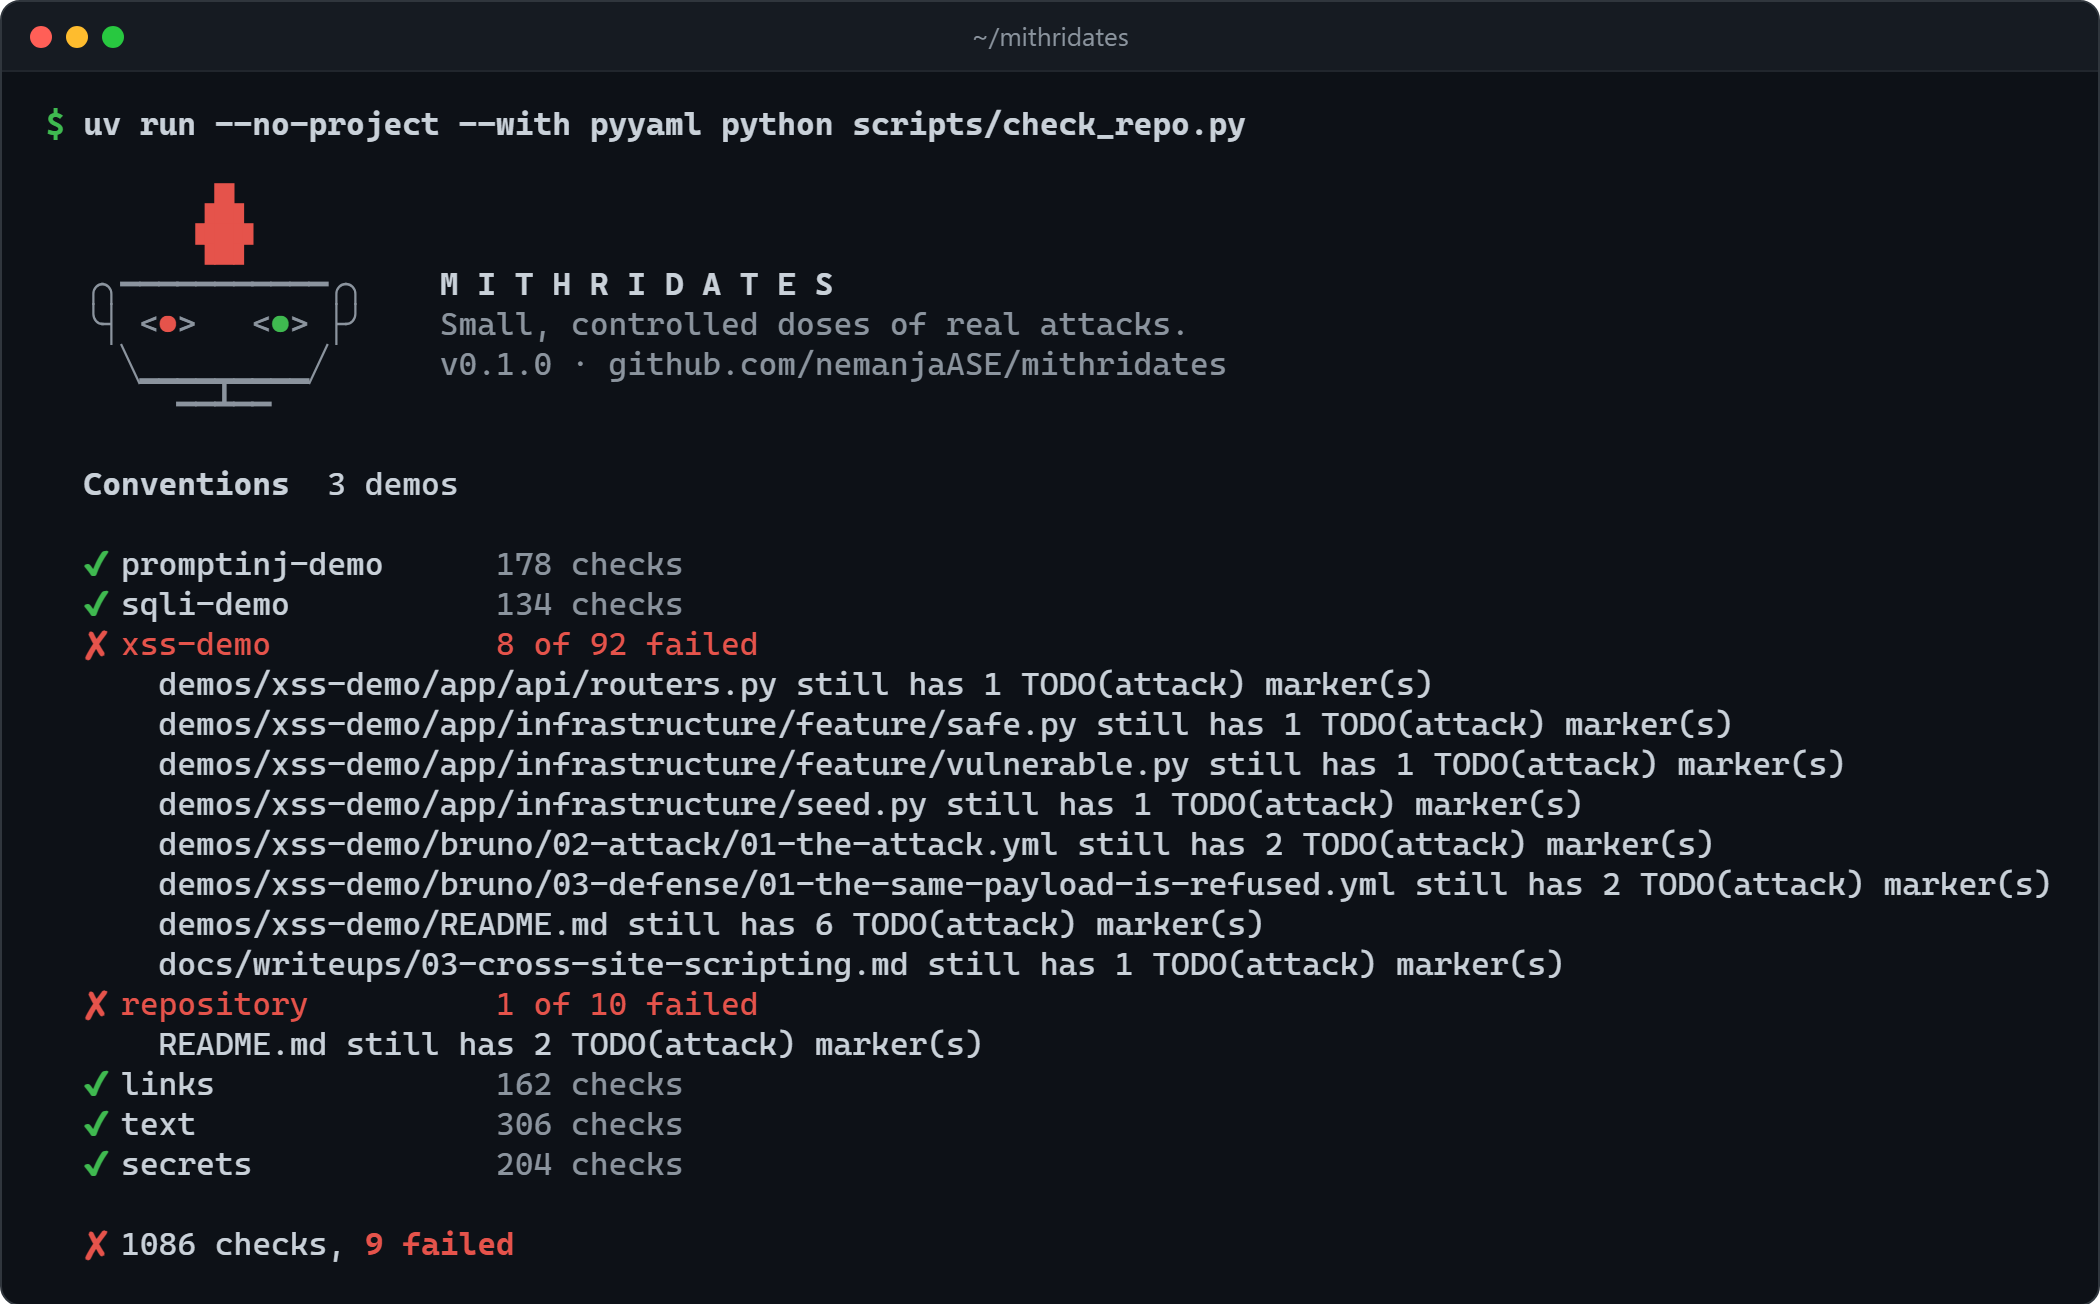
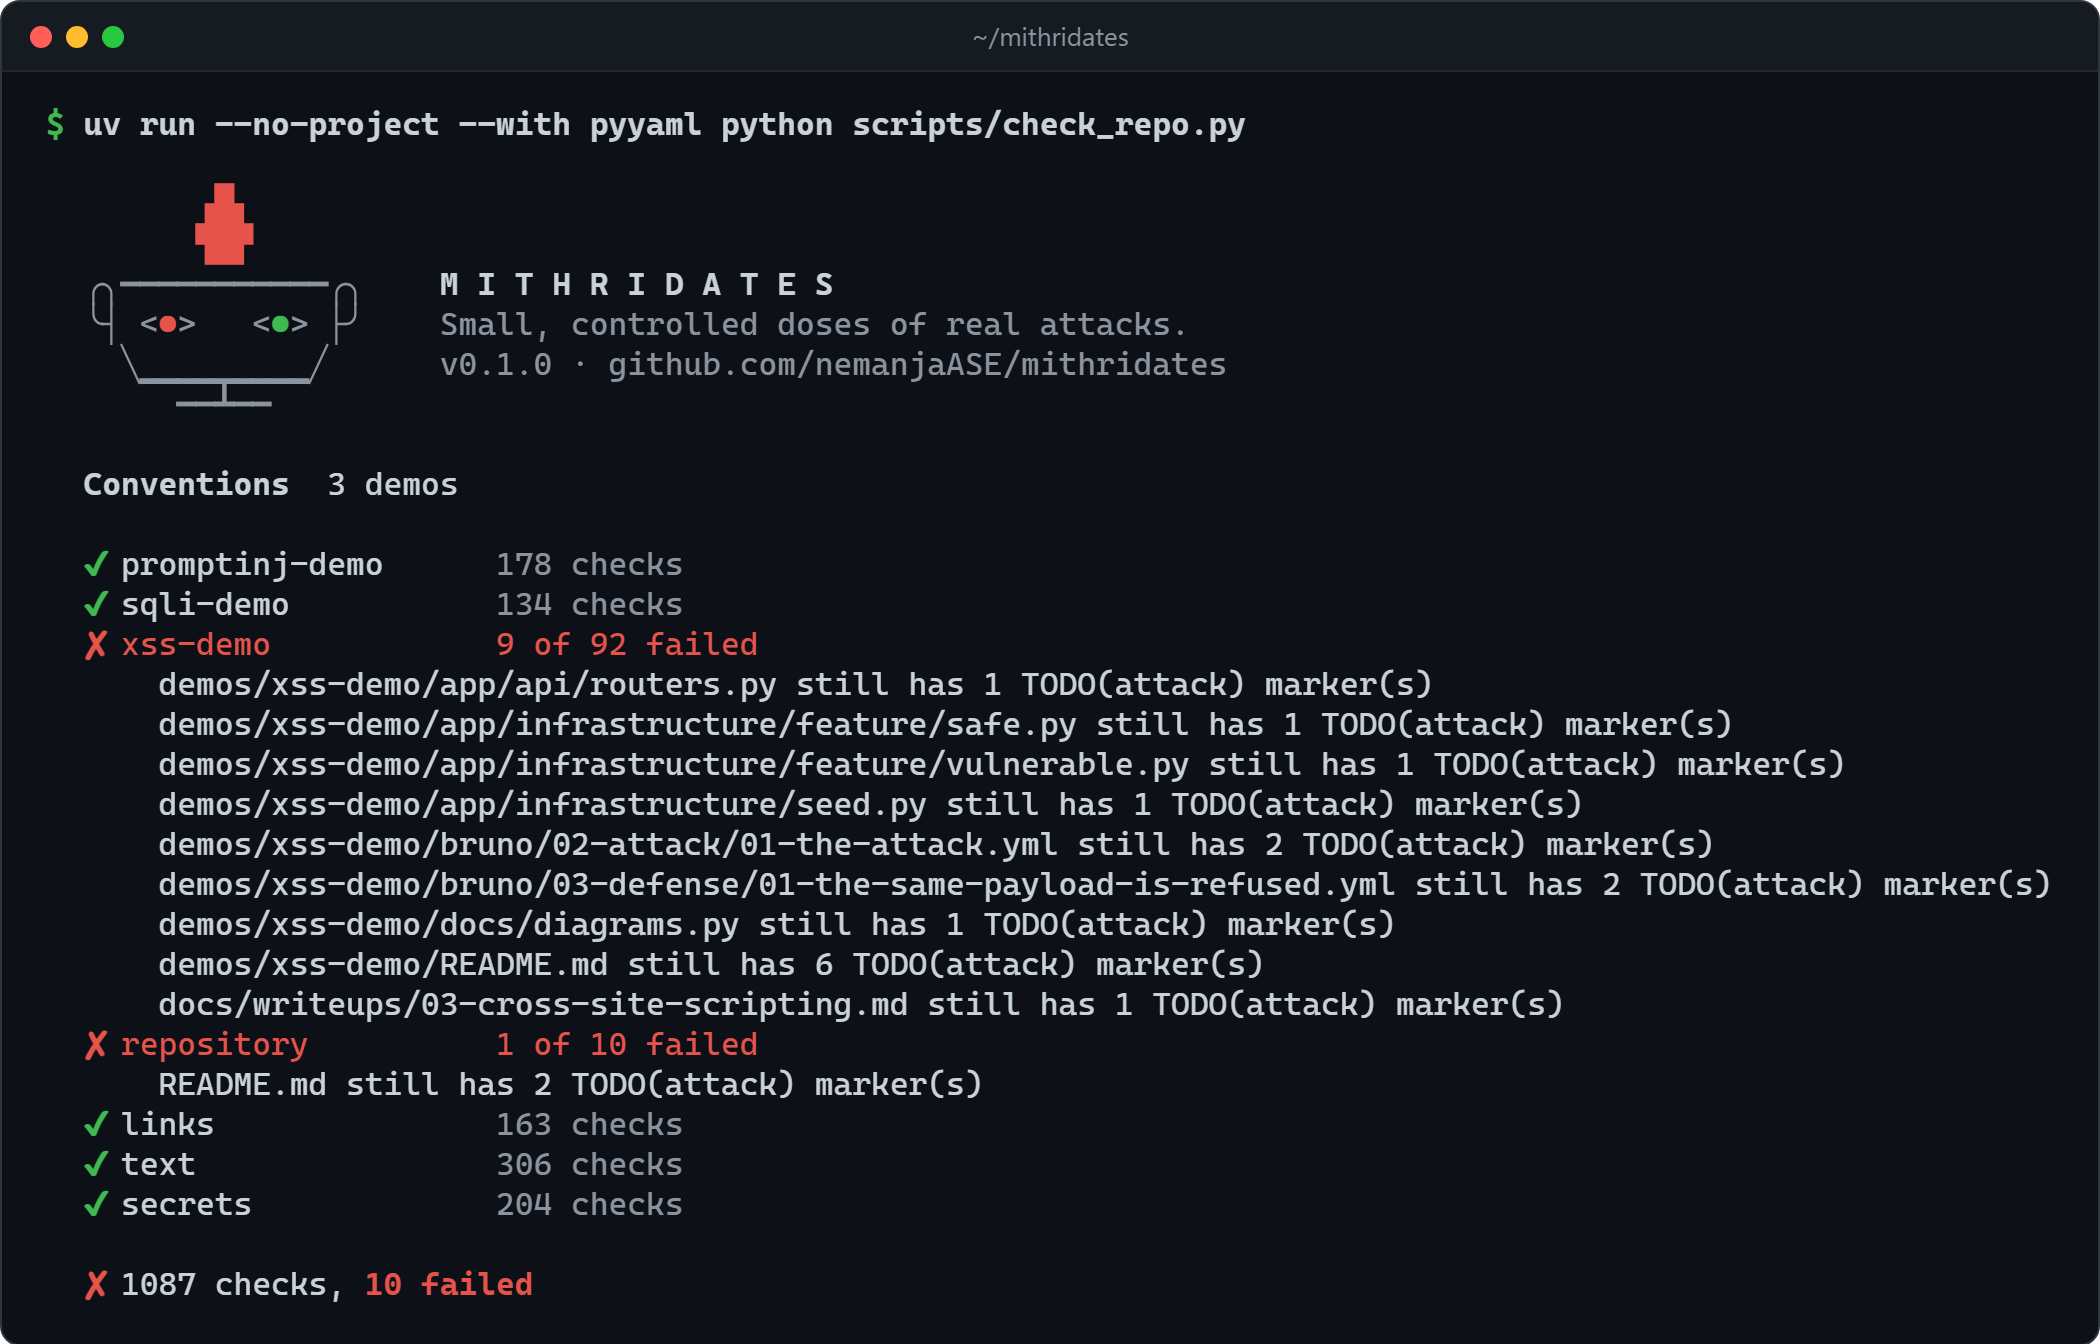
fix(scripts): generated C4 figures match the generated code

diff --git a/.claude/skills/house-style-figures/new_figures.py b/.claude/skills/house-style-figures/new_figures.py
@@ -3,17 +3,21 @@
 The house style is optional: a demo must show the C4 model, but may draw it any way it
 likes. This script is for a contributor who wants the look of the existing demos.
 
-    python .claude/skills/house-style-figures/new_figures.py <topic>-demo
+    python .claude/skills/house-style-figures/new_figures.py <topic>-demo [--postgres] [--mitigated]
 
 Writes demos/<topic>-demo/docs/diagrams.py: the house-style block copied from
-.claude/skills/house-style-figures/diagram_style.py, and the four figures every demo's README carries — C1 context,
-C2 containers, C3 components, C4 code — drawn with placeholder names. They already pass
-check_figures.py; change the names, the boxes and the arrows to your demo's own,
-then run `python demos/<topic>-demo/docs/diagrams.py` to draw them.
+.claude/skills/house-style-figures/diagram_style.py, and the four figures every demo's
+README carries — C1 context, C2 containers, C3 components, C4 code. They draw the code
+scripts/new_demo.py writes, with the same options: a database with `--postgres`, and a
+`mitigated` variant instead of `safe` with `--mitigated`. They pass check_figures.py, and
+carry a TODO(attack) marker until the figures are redrawn for the demo's own attack; then
+run `python demos/<topic>-demo/docs/diagrams.py` to draw them.
 
 figure-kit.svg next to this file shows every part with the call that draws it, and
 SKILL.md has the rules. The script never overwrites an existing file.
 """
+import argparse
+import re
 import sys
 from pathlib import Path
 
@@ -39,6 +43,10 @@ from pathlib import Path
 
 FIGURES = '''
 
+# TODO(attack): these figures draw the code the generator wrote. Redraw them for your
+# attack: change the names, the boxes and the arrows below, run this file, and open the
+# SVGs. .claude/skills/house-style-figures/figure-kit.svg shows every part and its call.
+
 W = 1100
 SYSTEM = "__NAME__"         # the demo; NAME is taken: the style uses it for a size
 
@@ -50,7 +58,7 @@ def context():
     a = figure(W, "c4 model · level 1 · context", "Who uses it, and what it depends on")
     top, hb = 220, node_h("kind", ["what"])
     node(a, M, top, 230, "you", "learner · attacker", ["Bruno"], dash="4 3")
-    node(a, 420, top, 260, SYSTEM, "software system", ["what it is"], icon="fastapi")
+    node(a, 420, top, 260, SYSTEM, "software system", ["vulnerable · __safe__"], icon="fastapi")
     node(a, 814, top, 230, "Docker Hub", "container registry", ["base images"],
          dash="4 3", icon="docker")
     for x in (360, 740):
@@ -71,15 +79,20 @@ def containers():
     top = 232
     hy = node(a, M, top, 180, "you", "Bruno", dash="4 3")
     node(a, 372, top, 300, SYSTEM, "FastAPI · uvicorn", accent=True, docker=True)
-    low = top + hy + 70
-    hd = node(a, 372, low, 300, "database", "PostgreSQL 18", store=True, docker=True)
+    bottom = top + hy
+# [postgres]
+    low = bottom + 70
+    bottom = low + node(a, 372, low, 300, "database", "PostgreSQL 18", store=True, docker=True)
+# [/postgres]
     panel = []
-    zone(panel, 340, 196, 364, low + hd + 36 - 196, "system · " + SYSTEM)
+    zone(panel, 340, 196, 364, bottom + 36 - 196, "system · " + SYSTEM)
     a[under:under] = panel
-    boundary(a, 268, 176, low + hd + 56)
+    boundary(a, 268, 176, bottom + 56)
     mid = top + hy // 2
     arrow(a, [(240, mid), (368, mid)], "attacks", ACCENT, at=(276, mid - 10))
+# [postgres]
     arrow(a, [(522, top + hy + 4), (522, low - 4)], "SQL", at=(536, top + hy + 38))
+# [/postgres]
     return caption(a, W, 2, "level 2 — the containers and the one published port",
                    "compose.yaml")
 
@@ -92,33 +105,36 @@ def components():
     left, centre, right, w = M, 399, 742, 302
     top = 212
     hy = node(a, left, top, w, "you", "Bruno", accent=True, dash="4 3")
-    node(a, centre, top, w, "routers/feature.py", "FastAPI")
-    node(a, right, top, w, "use_cases/feature.py", "application")
+    node(a, centre, top, w, "routers.py", "FastAPI")
+    node(a, right, top, w, "RunFeatureUseCase", "application")
     mid = top + hy // 2
     arrow(a, [(362, mid), (395, mid)], None, ACCENT)
     arrow(a, [(705, mid), (738, mid)], None)
 
     port = top + hy + 48
-    hp = node(a, right, port, w, "Port", "port")
+    hp = node(a, right, port, w, "Feature", "port")
     arrow(a, [(893, top + hy + 4), (893, port - 4)], None)
 
     bus = port + hp + 40
     row = bus + 52
-    ha = node(a, left, row, w, "VulnerableAdapter", "adapter", accent=True)
-    node(a, right, row, w, "SafeAdapter", "adapter", accent=SAFE)
+    node(a, left, row, w, "VulnerableFeature", "adapter", accent=True)
+    node(a, right, row, w, "__Safe__Feature", "adapter", accent=SAFE)
     fork(a, (893, port + hp), bus, [(207, row - 4), (893, row - 4)], [ACCENT, SAFE], down=True)
     a.append(mono(217, bus + 32, "variant=vulnerable", LABEL, ACCENT))
-    a.append(mono(903, bus + 32, "variant=safe", LABEL, SAFE))
+    a.append(mono(903, bus + 32, "variant=__safe__", LABEL, SAFE))
+# [postgres]
 
-    level = row + ha // 2
+    level = row + node_h("adapter", []) // 2
     hd = node_h("PostgreSQL 18", []) + 12          # a store is taller by its lid
     node(a, 465, level - hd // 2, 170, "database", "PostgreSQL 18", store=True)
     arrow(a, [(362, level), (461, level)], None, ACCENT)
-    a.append(mono(411.5 - mono_w("as code", LABEL) / 2, level - 10, "as code", LABEL, ACCENT))
+    a.append(mono(411.5 - mono_w("the flaw", LABEL) / 2, level - 10, "the flaw", LABEL, ACCENT))
     arrow(a, [(738, level), (639, level)], None, SAFE)
-    a.append(mono(688.5 - mono_w("as data", LABEL) / 2, level - 10, "as data", LABEL, SAFE))
+    a.append(mono(688.5 - mono_w("the defense", LABEL) / 2, level - 10, "the defense", LABEL,
+                  SAFE))
+# [/postgres]
     return caption(a, W, 3, "level 3 — the components one request passes through",
-                   "presentation/ · application/ · infrastructure/")
+                   "app/api/ · app/application/ · app/infrastructure/")
 
 
 # --------------------------------------------------------------------------
@@ -127,15 +143,15 @@ def components():
 def code_level():
     a = figure(W, "c4 model · level 4 · code", "The port and its two implementations")
     top = 220
-    hp = node(a, 399, top, 302, "Port", "typing.Protocol", ["method(argument)"])
+    hp = node(a, 399, top, 302, "Feature", "typing.Protocol", ["run(value, principal)"])
     low = top + hp + 80
-    node(a, M, low, 302, "VulnerableAdapter", "infrastructure", accent=True)
-    node(a, 742, low, 302, "SafeAdapter", "infrastructure", accent=SAFE)
+    node(a, M, low, 302, "VulnerableFeature", "infrastructure", accent=True)
+    node(a, 742, low, 302, "__Safe__Feature", "infrastructure", accent=SAFE)
     mid = top + hp // 2
     arrow(a, [(207, low - 4), (207, mid), (395, mid)], "implements", at=(217, low - 30))
     arrow(a, [(893, low - 4), (893, mid), (705, mid)], "implements", at=(903, low - 30))
     return caption(a, W, 4, "level 4 — one port, two implementations",
-                   "domain/ports/ · infrastructure/")
+                   "app/domain/ports.py · app/infrastructure/feature/")
 
 
 if __name__ == "__main__":
@@ -146,13 +162,33 @@ if __name__ == "__main__":
         ("c4-code", code_level()),
     ])
 '''
+MARKER = re.compile(r"# \[(/?)([a-z-]+)\]\s*")
+
+
+def keep_blocks(text: str, flags: set[str]) -> str:
+    """Keeps the lines between `# [name]` and `# [/name]` when `name` is in `flags`."""
+    out, keep = [], True
+    for line in text.splitlines(keepends=True):
+        marker = MARKER.fullmatch(line)
+        if marker:
+            keep = bool(marker[1]) or marker[2] in flags
+            continue
+        if keep:
+            out.append(line)
+    return "".join(out)
 
 
 def main() -> int:
-    if len(sys.argv) != 2 or not sys.argv[1].rstrip("/").endswith("-demo"):
-        print(__doc__)
-        return 2
-    name = Path(sys.argv[1].rstrip("/")).name
+    parser = argparse.ArgumentParser(description=__doc__.splitlines()[0])
+    parser.add_argument("demo", help="the demo's folder, e.g. demos/xss-demo")
+    parser.add_argument("--postgres", action="store_true",
+                        help="the demo has a PostgreSQL database, as new_demo.py --postgres makes")
+    parser.add_argument("--mitigated", action="store_true",
+                        help="the second variant is `mitigated`, as new_demo.py --mitigated names it")
+    args = parser.parse_args()
+    name = Path(args.demo.rstrip("/")).name
+    if not name.endswith("-demo"):
+        parser.error("the demo's folder ends in -demo, e.g. demos/xss-demo")
     target = ROOT / "demos" / name / "docs" / "diagrams.py"
     if target.exists():
         print(f"{target.relative_to(ROOT)} already exists; nothing written.")
@@ -160,11 +196,14 @@ def main() -> int:
     style = (HERE / "diagram_style.py").read_text(encoding="utf-8")
     start = style.index("# --- house style")
     end = style.index("\n", style.index("# --- end house style")) + 1
+    second = "mitigated" if args.mitigated else "safe"
+    figures = keep_blocks(FIGURES, {"postgres"} if args.postgres else set())
+    figures = (figures.replace("__NAME__", name)
+               .replace("__Safe__", second.capitalize()).replace("__safe__", second))
     target.parent.mkdir(parents=True, exist_ok=True)
-    target.write_text(HEAD + style[start:end] + FIGURES.replace("__NAME__", name),
-                      encoding="utf-8", newline="\n")
+    target.write_text(HEAD + style[start:end] + figures, encoding="utf-8", newline="\n")
     print(f"wrote {target.relative_to(ROOT)}")
-    print(f"next: python demos/{name}/docs/diagrams.py, then change the placeholder names")
+    print(f"next: python demos/{name}/docs/diagrams.py, then redraw the figures for your attack")
     return 0
 
 

diff --git a/scripts/new_demo.py b/scripts/new_demo.py
@@ -208,8 +208,9 @@ def main() -> int:
     with ui.step("Listing the demo", "Listed the demo") as step:
         register(name, number, slug, args.title, port)
         step.done(f"compose file {dot} README {dot} docs index")
-    with ui.step("Drawing the C4 figures", "Drew the placeholder C4 figures") as step:
-        problem = (run([sys.executable, str(FIGURES), f"demos/{name}"])
+    with ui.step("Drawing the C4 figures", "Drew the C4 figures") as step:
+        options = [f"--{option}" for option in ("postgres", "mitigated") if getattr(args, option)]
+        problem = (run([sys.executable, str(FIGURES), f"demos/{name}", *options])
                    or run([sys.executable, f"demos/{name}/docs/diagrams.py"]))
         if problem:
             step.warn(problem)

diff --git a/CONTRIBUTING.md b/CONTRIBUTING.md
@@ -106,7 +106,7 @@ python scripts/new_demo.py <topic> --title "<Attack name>"
 ```
 
 <p align="center">
-  <img src="docs/assets/terminal/new-demo.png" width="600" alt="python scripts/new_demo.py xss --title &quot;Cross-site scripting&quot; --postgres: the logo, the new demo's write-up number, port, variants and database, five completed steps, nine files marked TODO(attack), and how to run it">
+  <img src="docs/assets/terminal/new-demo.png" width="600" alt="python scripts/new_demo.py xss --title &quot;Cross-site scripting&quot; --postgres: the logo, the new demo's write-up number, port, variants and database, five completed steps, ten files marked TODO(attack), and how to run it">
 </p>
 <p align="center"><sub>An example run, for <code>xss</code> with <code>--postgres</code>.</sub></p>
 
@@ -131,11 +131,36 @@ Fill them in this order, so that each one gives you something to try. The paths 
    behind the same interface;
 3. `app/api/routers.py`: the route's name;
 4. `bruno/02-attack` and `bruno/03-defense`: the same payload, sent to both variants;
-5. the demo's `README.md`; outside the demo folder, its write-up in `docs/writeups/` and its
+5. `docs/diagrams.py`: the four figures the README shows, [redrawn for your attack](#the-figures);
+6. the demo's `README.md`; outside the demo folder, its write-up in `docs/writeups/` and its
    row in the root `README.md`;
-6. with `--postgres`, the tables, in `app/infrastructure/seed.py`.
+7. with `--postgres`, the tables, in `app/infrastructure/seed.py`.
 
 [The contract](#the-contract) lists what every demo has to provide.
+
+#### The figures
+
+The README shows the demo at the four levels of the C4 model, one figure each. The
+generator drew them from its own code: `routers.py`, `RunFeatureUseCase`, the `Feature`
+port and its two classes, and the database with `--postgres`. Redraw them for your attack
+in the four functions at the end of `docs/diagrams.py`: `context()`, `containers()`,
+`components()` and `code_level()`. Then draw them again, and check them:
+
+```bash
+python demos/<topic>-demo/docs/diagrams.py
+python .claude/skills/house-style-figures/check_figures.py
+```
+
+The first command writes the four SVGs in `docs/`; open one in a browser to see it. The
+second ends in `all passed` when no label overlaps a line or a box.
+[`figure-kit.svg`](.claude/skills/house-style-figures/figure-kit.svg) shows every part with
+the call that draws it. Two things to leave alone: the house-style block at the top of
+`diagrams.py`, which the check compares with the original, and the SVGs themselves, which
+the next run overwrites.
+
+Would you rather draw in draw.io, Excalidraw or Mermaid? Delete `docs/diagrams.py` and put
+your own images in `docs/`. The only rule is the C4 model: four levels, in order, each with
+a figure.
 
 ### 5. Run it and try the attack
 
@@ -318,7 +343,7 @@ This creates `demos/<topic>-demo/` with everything a demo shares:
 
 - a compose file and a Dockerfile, already hardened;
 - a layered FastAPI application with login, error handling and security headers;
-- the Bruno folders, the README and placeholder C4 figures.
+- the Bruno folders, the README, and C4 figures of the generated code, to redraw for your attack.
 
 It also starts the write-up in `docs/writeups/`, picks the next number and port, and lists
 the demo in `docker-compose.yml`, `README.md` and `docs/README.md`.

diff --git a/.claude/skills/house-style-figures/SKILL.md b/.claude/skills/house-style-figures/SKILL.md
@@ -19,7 +19,7 @@ demos that already use the style, or for a new one whose author wants the same l
 | --- | --- |
 | `diagram_style.py` | the house style — palette, type, `node()`, `entity()`, `arrow()`, `fork()`, `zone()`, `boundary()`, `pulse()`, `key()`, `figure()`, `caption()`. The block between the `# --- house style` markers is what each demo copies. Run it to redraw `figure-kit.svg`. |
 | `figure-kit.svg` | every part, with the call that draws it |
-| `new_figures.py` | `python .claude/skills/house-style-figures/new_figures.py <topic>-demo` writes a demo's `docs/diagrams.py` with the style copied in and C1–C4 drawn with placeholder names |
+| `new_figures.py` | `python .claude/skills/house-style-figures/new_figures.py <topic>-demo [--postgres] [--mitigated]` writes a demo's `docs/diagrams.py` with the style copied in and C1–C4 drawn from the code `scripts/new_demo.py` writes, with the same options; `scripts/new_demo.py` runs it |
 | `check_figures.py` | the checks: copies identical, geometry, rhythm, contrast, no name shadowing |
 
 ## Change a figure

diff --git a/scripts/demo_template/README.md b/scripts/demo_template/README.md
@@ -81,7 +81,7 @@ TOKEN=$(curl -s -X POST localhost:__PORT__/api/v1/auth/login \
 
 ## <img src="../../docs/assets/icons/network.svg" width="30" height="23" alt="">How it works
 
-<!-- TODO(attack): the four figures below are placeholders. Edit docs/diagrams.py, run it, and replace the lead-in of each level. -->
+<!-- TODO(attack): the four figures below draw the generated code. Redraw them for your attack, as step 4 of CONTRIBUTING.md shows, and rewrite the lead-in of each level. -->
 
 **Level 1 — context.** Who drives the service, and what it pulls from outside.
 
